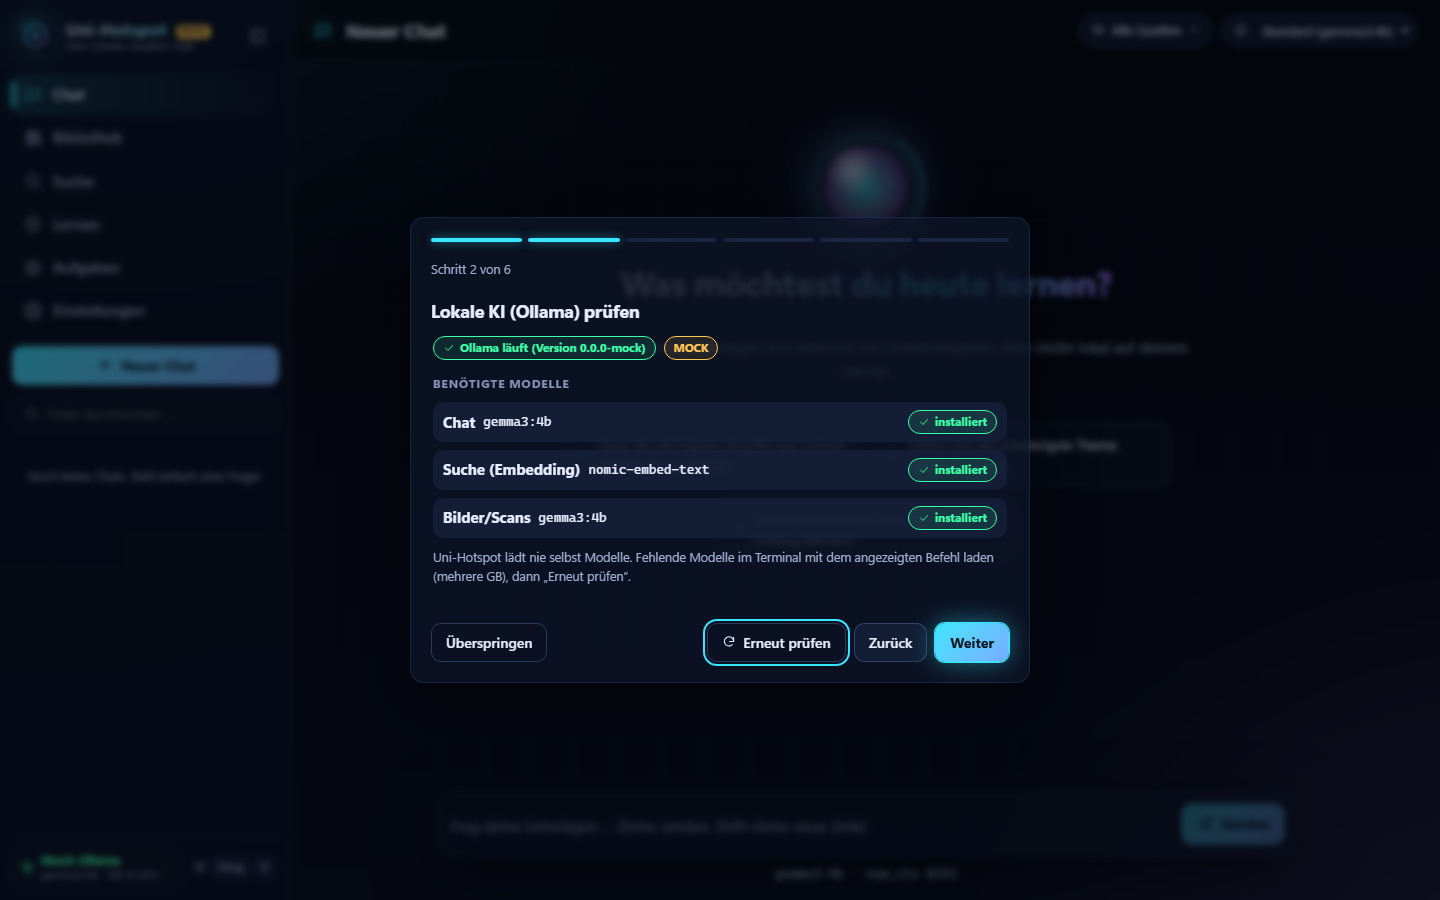
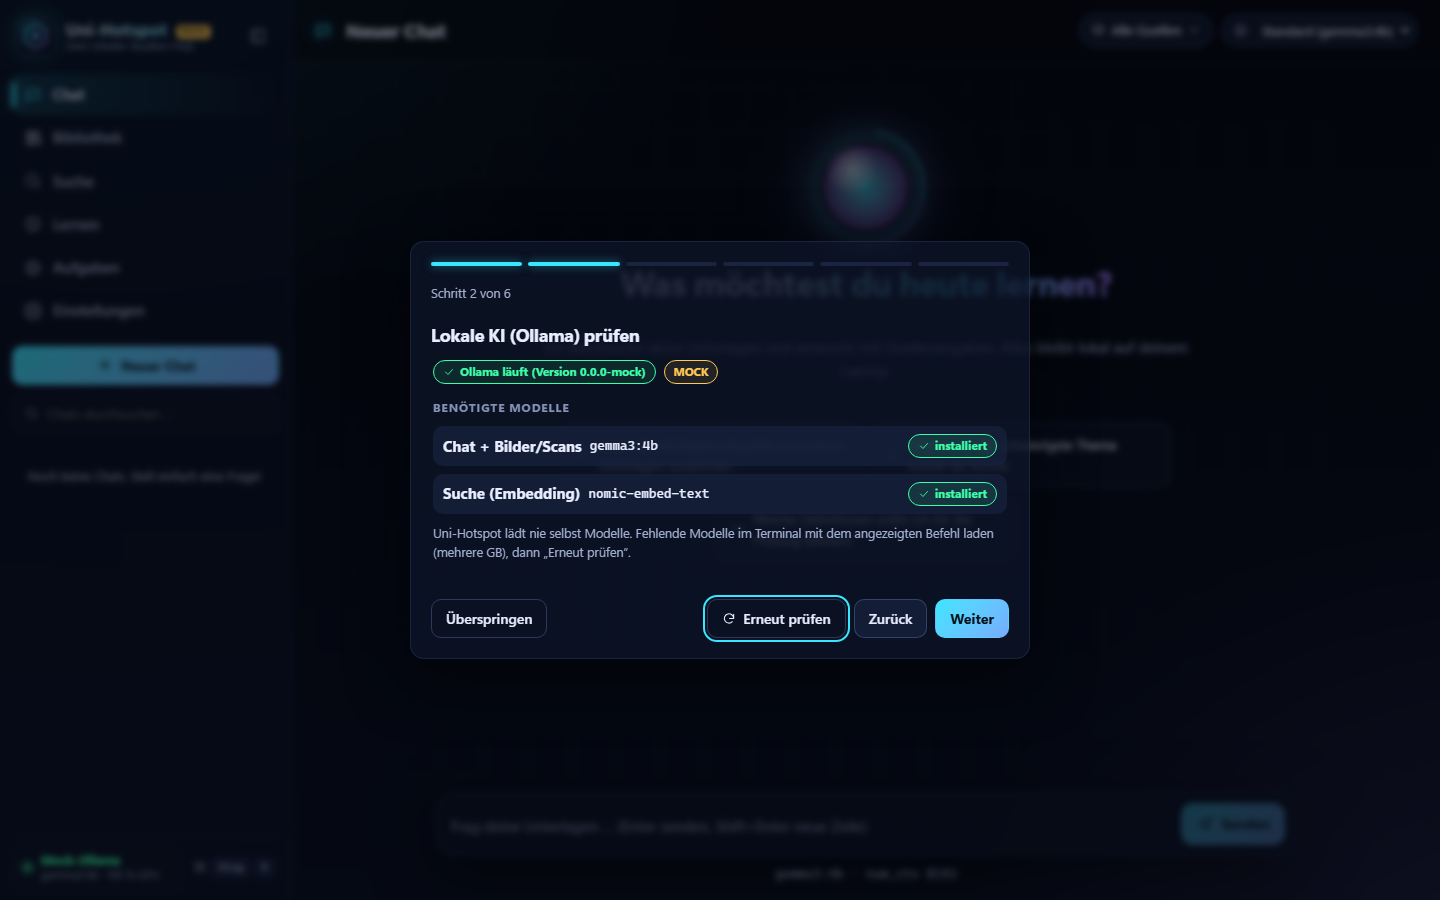
Phase 4 Korrekturrunde 1 (Regressionstests): E2E fuer die drei UI-Fixes aus fac53c4, K9/K16 schaerfer
- E2E: Befehlspalette (Mauszeiger steht ueber dem 2. Treffer, Tippen per einem input-Ereignis, Enter muss den
  obersten ausfuehren), "Neuer Chat" setzt "Ohne Quellen" des vorigen Entwurfs zurueck, Text direkt nach
  "Neuer Chat" landet im neuen Chat (alter Chat unveraendert, per API geprueft); E2E 43/43
- K9: ZipWriter-Unit-Test (Ausgabe schliesst ohne Fehler, waehrend auf drain gewartet wird) - auf altem Stand haengt er
- K16: Test prueft den neuen LIESMICH-Hinweis (NEUER Ordner + tools + hotspot.config.json) statt einer Zeile, die es
  vorher schon gab
- Screenshots Assistent/Diagnose aktualisiert (gemma3:4b einmal, Pfad umbrochen)

Changed region(s): [[0.2812, 0.2489, 0.6875, 0.6533], [0.4688, 0.6533, 0.7188, 0.7778], [0.3125, 0.6844, 0.375, 0.7467]]

diff --git a/tests/transfer.test.ts b/tests/transfer.test.ts
@@ -4,6 +4,7 @@ import crypto from 'node:crypto';
 import zlib from 'node:zlib';
 import { once } from 'node:events';
 import { monitorEventLoopDelay } from 'node:perf_hooks';
+import { Writable } from 'node:stream';
 import { zipSync, strToU8 } from 'fflate';
 import { afterEach, describe, expect, it } from 'vitest';
 import { importLibrary, ZipWriter } from '../server/transfer.ts';
@@ -342,5 +343,15 @@ describe('Korrekturrunde 1: Import abbruchfest, Zeitstempel, Dedupe ohne Volltex
     await reader.cancel().catch(() => {});
     const tmp = a.hotspot.services.blobs.tmpDir;
     await waitFor(() => !fs.readdirSync(tmp).some((f) => f.startsWith('export-')), { message: 'Zwischendatei weg', timeout: 15_000 });
+  });
+
+  it('K9: ZipWriter wartet auf "drain" und die Ausgabe wird ohne Fehler geschlossen -> Abbruch statt ewigem Warten', async () => {
+    // Gegenstelle liest nie (Puffer voll), dann schließt sie: "drain" kommt nie
+    const out = new Writable({ highWaterMark: 16, write() {} });
+    const zw = new ZipWriter(out);
+    const pending = zw.add('a.bin', 1024, Buffer.alloc(1024));
+    setTimeout(() => out.destroy(), 50);
+    const r = await Promise.race([pending.then(() => 'fertig', (e: NodeJS.ErrnoException) => e.code ?? 'Fehler'), new Promise((res) => setTimeout(() => res('hängt'), 2000))]);
+    expect(r).toBe('ERR_STREAM_DESTROYED');
   });
 });

diff --git a/tests/start-scripts.test.ts b/tests/start-scripts.test.ts
@@ -128,7 +128,7 @@ describe('Windows-Paket (Phase 4)', () => {
 
   it('K16: LIESMICH nennt, was bei einem neuen Ordner mitzukopieren ist', () => {
     const src = fs.readFileSync(path.join(PROJECT_ROOT, 'scripts', 'package-win.mjs'), 'utf8');
-    expect(src).toMatch(/resources\\\\app\\\\tools/);
+    expect(src).toMatch(/NEUEN Ordner[\s\S]*resources\\\\app\\\\tools[\s\S]*hotspot\.config\.json/);
   });
 });
 
